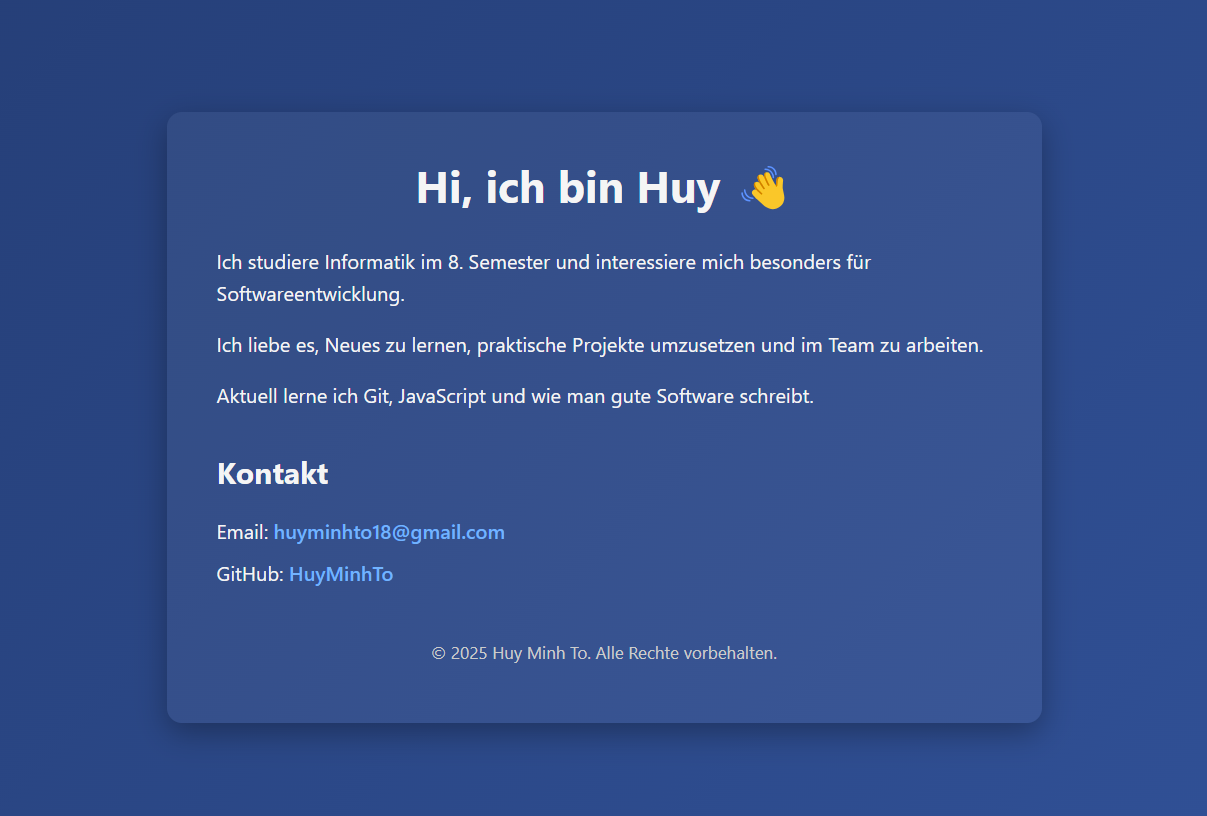
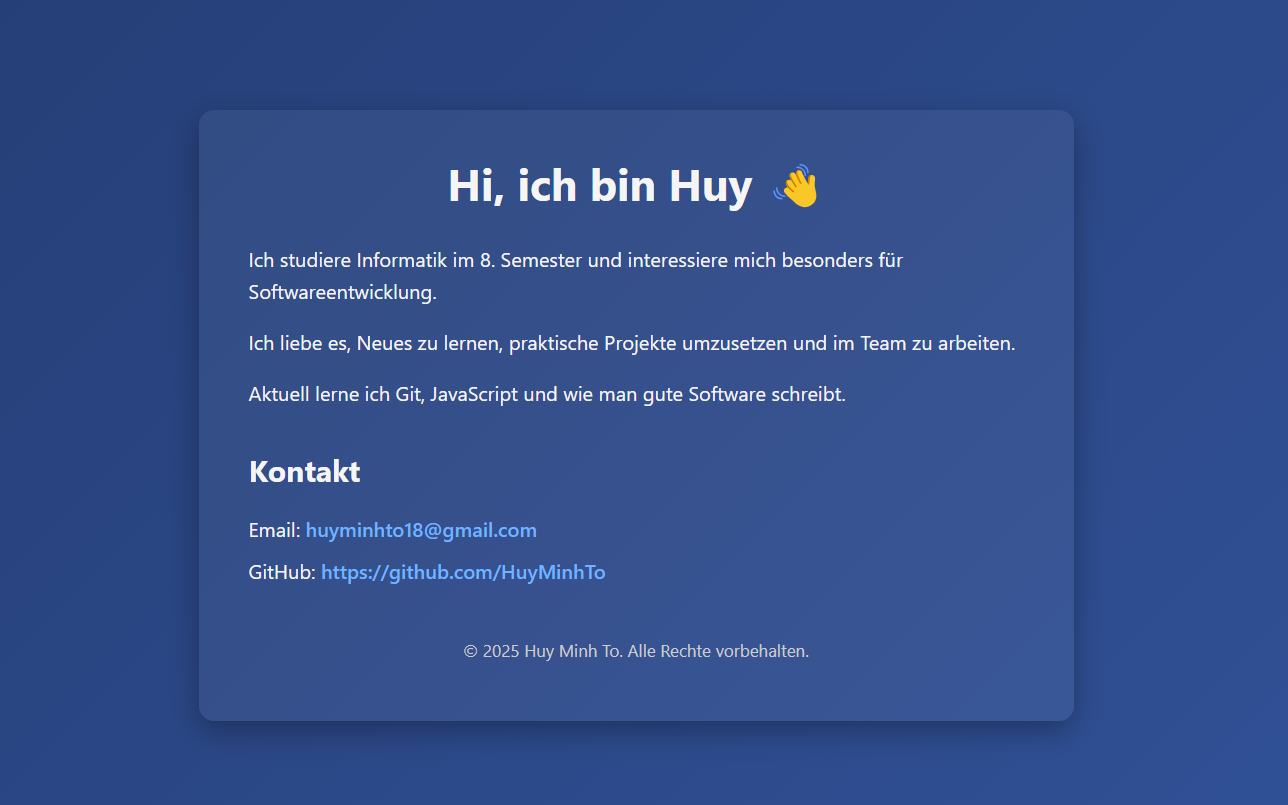
README.mdt angepasst

diff --git a/index.html b/index.html
@@ -20,7 +20,7 @@
       <h2>Kontakt</h2>
       <ul>
         <li>Email: <a href="mailto:huyminhto18@gmail.com">huyminhto18@gmail.com</a></li>
-        <li>GitHub: <a href="https://github.com/HuyMinhTo" target="_blank">HuyMinhTo</a></li>
+        <li>GitHub: <a href="https://github.com/HuyMinhTo" target="_blank">https://github.com/HuyMinhTo</a></li>
       </ul>
     </section>
 
